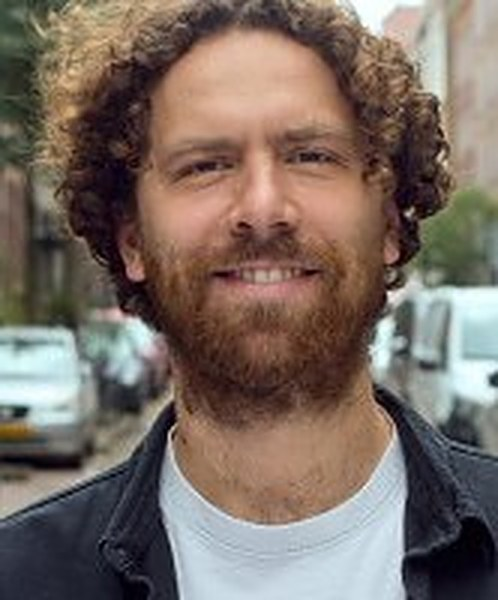
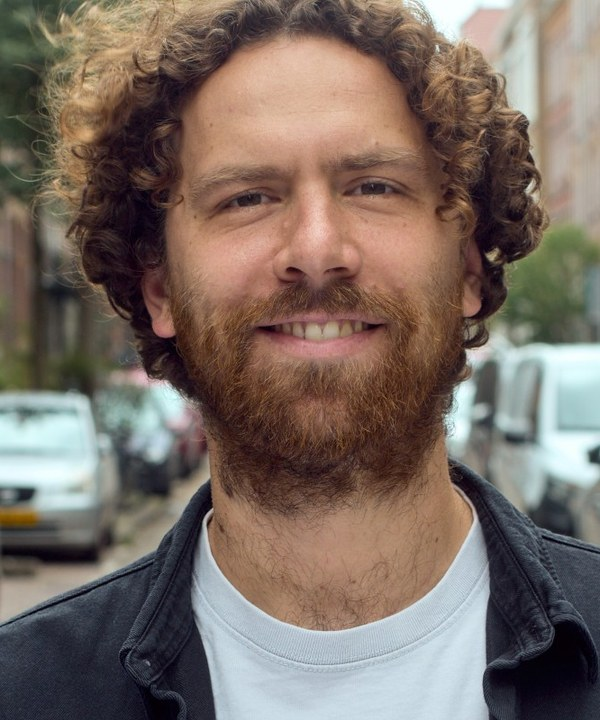
Solutions in Canva format with veins hero; team bios shortened, Jesse photo and LinkedIn
Claude-Session: https://claude.ai/code/session_012WVufrcvqibRwWTiJko1GV

diff --git a/solutions/index.html b/solutions/index.html
@@ -17,7 +17,7 @@
 <link rel="preconnect" href="https://fonts.googleapis.com">
 <link rel="preconnect" href="https://fonts.gstatic.com" crossorigin>
 <link href="https://fonts.googleapis.com/css2?family=Figtree:ital,wght@0,400;0,500;0,600;0,700;1,400&display=swap" rel="stylesheet">
-<link rel="stylesheet" href="/styles.css?v=5c5e1d22">
+<link rel="stylesheet" href="/styles.css?v=9d88d3e2">
 </head>
 <body>
 <a class="sr-only" href="#main">Skip to content</a>
@@ -38,44 +38,54 @@
       <div class="m-menu" hidden><p class="m-h">Solutions</p><a class="m-sub" href="/bess-configurator/">BESS Configurator</a><a class="m-sub" href="/bess-broker/">BESS Broker</a><a class="m-sub" href="/bess-backtest/">BESS Backtest</a><a href="/resources/">Resources</a><a href="/company/">Company</a></div>
     </header>
 
-    <div class="page-hero" id="main">
-      <h1>Solutions</h1>
+    <div class="page-hero sol-hero-mark" id="main">
+      <h1>Which one is you?</h1>
       <p>Three solutions for those who add capacity to the grid but are in the dark on the potential of their assets: size the right system, monitor its performance and find a trusted optimizer when there is more to earn.</p>
+      <div class="hero-ctas"><a class="btn btn-lilac" href="#configurator">BESS Configurator</a><a class="btn btn-lilac" href="#broker">BESS Broker</a><a class="btn btn-lilac" href="#backtest">BESS Backtest</a></div>
     </div>
   </div>
 </div>
 <section class="dark sol-wrap">
   <div class="wrap">
-    <article class="sol" id="configurator">
-      <span class="sol-icon" aria-hidden="true"><svg viewBox="0 0 24 24" fill="none" stroke="#97F2F5" stroke-width="1.5" stroke-linecap="round" stroke-linejoin="round"><path d="M4 7h9M17 7h3M4 17h3M11 17h9"/><circle cx="15" cy="7" r="2"/><circle cx="9" cy="17" r="2"/><path d="M4 12h5M13 12h7"/><circle cx="11" cy="12" r="2"/></svg></span>
-      <div class="sol-body">
-        <h2>BESS Configurator</h2>
-        <p class="sol-lead">Find the optimal system for your context.</p>
-        <p>We simulate the revenues of different configurations (number of batteries, MW/MWh) within the restrictions on your site, so you see which one could earn the most.</p>
-        <p>For owners and developers who plan a battery on a site with solar, wind or a large energy use, and for installers who size systems for customers.</p>
-        <div class="cta-row" style="justify-content:flex-start;margin-top:22px"><a class="btn btn-lilac" href="/bess-configurator/">Learn more</a><a class="btn btn-outline" href="/talk-to-us/?topic=configurator">Talk to us</a></div>
-      </div>
-    </article>
-    <article class="sol" id="broker">
-      <span class="sol-icon" aria-hidden="true"><svg viewBox="0 0 24 24" fill="none" stroke="#97F2F5" stroke-width="1.5" stroke-linecap="round" stroke-linejoin="round"><circle cx="10.5" cy="10.5" r="6.5"/><path d="M15.5 15.5 21 21"/><path d="M8 10.5l2 2 3.5-4"/></svg></span>
-      <div class="sol-body">
-        <h2>BESS Broker</h2>
-        <p class="sol-lead">Outsource the search for a trusted optimizer.</p>
-        <p>We run a standardised process to source, compare and contract optimizers, and manage the switch so your battery keeps earning without interruption.</p>
-        <p>For owners whose battery objectively earns less than it could and who want to compare optimizers without doing the research themselves.</p>
-        <div class="cta-row" style="justify-content:flex-start;margin-top:22px"><a class="btn btn-lilac" href="/bess-broker/">Learn more</a><a class="btn btn-outline" href="/talk-to-us/?topic=broker">Talk to us</a></div>
-      </div>
-    </article>
-    <article class="sol" id="backtest">
-      <span class="sol-icon" aria-hidden="true"><svg viewBox="0 0 24 24" fill="none" stroke="#97F2F5" stroke-width="1.5" stroke-linecap="round" stroke-linejoin="round"><path d="M3.5 12a8.5 8.5 0 1 0 2.6-6.1"/><path d="M3.5 4.5v4h4"/><path d="M12 7.5V12l3 2"/></svg></span>
-      <div class="sol-body">
-        <h2>BESS Backtest</h2>
-        <p class="sol-lead">Monitor your performance proactively.</p>
-        <p>We compare your realised revenues with what is reasonably achievable on your site, and alert you when performance consistently falls short.</p>
-        <p>For owners of operating batteries, and for installers who want to give every customer an independent view on what the battery earns.</p>
-        <div class="cta-row" style="justify-content:flex-start;margin-top:22px"><a class="btn btn-lilac" href="/bess-backtest/">Learn more</a><a class="btn btn-outline" href="/talk-to-us/?topic=backtest">Talk to us</a></div>
-      </div>
-    </article>
+    <div class="sol-row sol-r0">
+      <article class="sol" id="configurator">
+        <span class="sol-icon" aria-hidden="true"><svg viewBox="0 0 24 24" fill="none" stroke="#97F2F5" stroke-width="1.5" stroke-linecap="round" stroke-linejoin="round"><path d="M4 7h9M17 7h3M4 17h3M11 17h9"/><circle cx="15" cy="7" r="2"/><circle cx="9" cy="17" r="2"/><path d="M4 12h5M13 12h7"/><circle cx="11" cy="12" r="2"/></svg></span>
+        <div class="sol-body">
+          <h2>BESS Configurator</h2>
+          <p class="sol-lead">Find the optimal system for your context.</p>
+          <p>We simulate the revenues of different configurations (number of batteries, MW/MWh) within the restrictions on your site, so you see which one could earn the most.</p>
+          <p>For owners and developers who plan a battery on a site with solar, wind or a large energy use, and for installers who size systems for customers.</p>
+          <div class="cta-row" style="justify-content:flex-start;margin-top:22px"><a class="btn btn-lilac" href="/bess-configurator/">Learn more</a><a class="btn btn-outline" href="/talk-to-us/?topic=configurator">Talk to us</a></div>
+        </div>
+      </article>
+      <img class="sol-img" src="/assets/img/about-pylon.jpg" alt="Power lines against the evening sky" width="960" height="1080" loading="lazy">
+    </div>
+    <div class="sol-row sol-r1">
+      <article class="sol" id="broker">
+        <span class="sol-icon" aria-hidden="true"><svg viewBox="0 0 24 24" fill="none" stroke="#97F2F5" stroke-width="1.5" stroke-linecap="round" stroke-linejoin="round"><circle cx="10.5" cy="10.5" r="6.5"/><path d="M15.5 15.5 21 21"/><path d="M8 10.5l2 2 3.5-4"/></svg></span>
+        <div class="sol-body">
+          <h2>BESS Broker</h2>
+          <p class="sol-lead">Outsource the search for a trusted optimizer.</p>
+          <p>We run a standardised process to source, compare and contract optimizers, and manage the switch so your battery keeps earning without interruption.</p>
+          <p>For owners whose battery objectively earns less than it could and who want to compare optimizers without doing the research themselves.</p>
+          <div class="cta-row" style="justify-content:flex-start;margin-top:22px"><a class="btn btn-lilac" href="/bess-broker/">Learn more</a><a class="btn btn-outline" href="/talk-to-us/?topic=broker">Talk to us</a></div>
+        </div>
+      </article>
+      <img class="sol-img" src="/assets/img/hero-bulb.jpg" alt="Glowing light bulb filament" width="960" height="1080" loading="lazy">
+    </div>
+    <div class="sol-row sol-r0">
+      <article class="sol" id="backtest">
+        <span class="sol-icon" aria-hidden="true"><svg viewBox="0 0 24 24" fill="none" stroke="#97F2F5" stroke-width="1.5" stroke-linecap="round" stroke-linejoin="round"><path d="M3.5 12a8.5 8.5 0 1 0 2.6-6.1"/><path d="M3.5 4.5v4h4"/><path d="M12 7.5V12l3 2"/></svg></span>
+        <div class="sol-body">
+          <h2>BESS Backtest</h2>
+          <p class="sol-lead">Monitor your performance proactively.</p>
+          <p>We compare your realised revenues with what is reasonably achievable on your site, and alert you when performance consistently falls short.</p>
+          <p>For owners of operating batteries, and for installers who want to give every customer an independent view on what the battery earns.</p>
+          <div class="cta-row" style="justify-content:flex-start;margin-top:22px"><a class="btn btn-lilac" href="/bess-backtest/">Learn more</a><a class="btn btn-outline" href="/talk-to-us/?topic=backtest">Talk to us</a></div>
+        </div>
+      </article>
+      <img class="sol-img" src="/assets/img/company-grid.jpg" alt="High-voltage substation against the evening sky" width="960" height="1080" loading="lazy">
+    </div>
   </div>
 </section>
 <section class="faq-sec" id="faq">

diff --git a/company/index.html b/company/index.html
@@ -17,7 +17,7 @@
 <link rel="preconnect" href="https://fonts.googleapis.com">
 <link rel="preconnect" href="https://fonts.gstatic.com" crossorigin>
 <link href="https://fonts.googleapis.com/css2?family=Figtree:ital,wght@0,400;0,500;0,600;0,700;1,400&display=swap" rel="stylesheet">
-<link rel="stylesheet" href="/styles.css?v=5c5e1d22">
+<link rel="stylesheet" href="/styles.css?v=9d88d3e2">
 <script type="application/ld+json">
 {
  "@context": "https://schema.org",
@@ -91,9 +91,9 @@
   <div class="wrap">
     <p class="co-label">The team</p>
     <div class="team">
-      <a class="member" href="https://www.linkedin.com/in/idel%C3%A8s-kaandorp/" target="_blank" rel="noopener"><img class="ph" src="/assets/team-ideles.jpg" alt="Idelès Kaandorp" width="600" height="600" loading="lazy"><b>Idelès Kaandorp</b><span class="m-bio">Founder. Owns strategy, culture, team, commercial development and fundraising. MSc in Pure Mathematics (King's College London), MBA (Harvard Business School) and McKinsey &amp; Company (2017-2019, 2022-2025), on energy projects.</span></a>
-      <a class="member" href="https://www.linkedin.com/in/edo-rivai-78b66a17/" target="_blank" rel="noopener"><img class="ph" src="/assets/team-edo.jpg" alt="Edo Rivai" width="512" height="512" loading="lazy"><b>Edo Rivai</b><span class="m-bio">Senior software developer. Owns platform design, API integrations with EMS and metering providers, the API sandbox, infrastructure and technical onboarding. Track record building scalable software.</span></a>
-      <div class="member"><img class="ph" src="/assets/team-jesse.jpg" alt="Jesse Willis" width="498" height="600" loading="lazy"><b>Jesse Willis</b><span class="m-bio">Project manager. Owns delivery planning, scope and budget, discovery calls with BESS owners and installers, and closing the first clients. Background as industrial design engineer (Delft).</span></div>
+      <a class="member" href="https://www.linkedin.com/in/idel%C3%A8s-kaandorp/" target="_blank" rel="noopener"><img class="ph" src="/assets/team-ideles.jpg" alt="Idelès Kaandorp" width="600" height="600" loading="lazy"><b>Idelès Kaandorp</b><span class="m-bio">Founder. Owns strategy, culture, team and fundraising, and closes the first clients. Ex-McKinsey on energy projects, MBA Harvard Business School.</span></a>
+      <a class="member" href="https://www.linkedin.com/in/edo-rivai-78b66a17/" target="_blank" rel="noopener"><img class="ph" src="/assets/team-edo.jpg" alt="Edo Rivai" width="512" height="512" loading="lazy"><b>Edo Rivai</b><span class="m-bio">Senior software developer. Owns platform design, API integrations with EMS and metering providers, infrastructure and technical onboarding. Builds scalable software at Spot AI.</span></a>
+      <a class="member" href="https://www.linkedin.com/in/jesse-h-willis/" target="_blank" rel="noopener"><img class="ph" src="/assets/team-jesse.jpg" alt="Jesse Willis" width="600" height="720" loading="lazy"><b>Jesse Willis</b><span class="m-bio">Project manager. Owns the process and makes sure every deliverable is delivered, on scope, budget and time. Runs Everlab, an industrial design engineering firm in Amsterdam.</span></a>
       <div class="member tbc"><span class="ph ph-empty ph-init" aria-hidden="true"><i>+</i></span><b>Coming soon</b><span class="m-bio">A new teammate joins us.</span></div>
       <div class="member tbc"><span class="ph ph-empty ph-init" aria-hidden="true"><i>+</i></span><b>Coming soon</b><span class="m-bio">A new teammate joins us.</span></div>
     </div>

diff --git a/styles.css b/styles.css
@@ -1265,3 +1265,17 @@ a.member:hover b { text-decoration: underline; text-underline-offset: 4px; }
 .co-note{margin-top:28px;font-size:var(--body);line-height:1.5}.co-note a{text-decoration:underline}
 .member.tbc{opacity:.6}
 .member.tbc .ph{display:none}.member.tbc{border:1px dashed rgba(255,255,255,.25);border-radius:12px;padding:22px;align-self:start}.member.tbc b{margin-top:0}
+
+/* v29 solutions in Canva format */
+.hero-shell:has(.sol-hero-mark){background:#040D1F url(/assets/img/solutions-veins-bright.jpg) center/cover no-repeat}
+.sol-hero-mark{padding-bottom:64px}.sol-hero-mark .hero-ctas{display:flex;gap:12px;flex-wrap:wrap}
+.sol-row{display:grid;grid-template-columns:minmax(0,1fr) minmax(0,1fr);gap:24px;margin-bottom:24px;align-items:stretch}
+.sol-row .sol{margin:0;display:block}.sol-row .sol-icon{margin-bottom:14px}
+.sol-img{width:100%;height:100%;min-height:360px;object-fit:cover;border-radius:28px;display:block}
+.sol-row.sol-r1 .sol{order:2}
+@media (max-width:860px){.sol-row{grid-template-columns:minmax(0,1fr)}.sol-row.sol-r1 .sol{order:0}.sol-img{min-height:240px;height:260px}}
+.hero-shell:has(.sol-hero-mark){background:#040D1F url(/assets/img/solutions-veins-bright.jpg) center/cover no-repeat !important}
+.sol-img{height:0;min-height:100%}
+@media (max-width:860px){.sol-img{height:260px;min-height:240px}}
+.hero-shell:has(.sol-hero-mark){background:linear-gradient(90deg,rgba(4,13,31,.72) 0%,rgba(4,13,31,.25) 60%,rgba(4,13,31,0) 100%),#040D1F url(/assets/img/solutions-veins-bright.jpg) center/cover no-repeat !important}
+.sol-hero-mark .btn-lilac{color:#040D1F}

diff --git a/index.html b/index.html
@@ -17,7 +17,7 @@
 <link rel="preconnect" href="https://fonts.googleapis.com">
 <link rel="preconnect" href="https://fonts.gstatic.com" crossorigin>
 <link href="https://fonts.googleapis.com/css2?family=Figtree:ital,wght@0,400;0,500;0,600;0,700;1,400&display=swap" rel="stylesheet">
-<link rel="stylesheet" href="/styles.css?v=5c5e1d22">
+<link rel="stylesheet" href="/styles.css?v=9d88d3e2">
 <script type="application/ld+json">
 {
  "@context": "https://schema.org",

diff --git a/bess-backtest/index.html b/bess-backtest/index.html
@@ -17,7 +17,7 @@
 <link rel="preconnect" href="https://fonts.googleapis.com">
 <link rel="preconnect" href="https://fonts.gstatic.com" crossorigin>
 <link href="https://fonts.googleapis.com/css2?family=Figtree:ital,wght@0,400;0,500;0,600;0,700;1,400&display=swap" rel="stylesheet">
-<link rel="stylesheet" href="/styles.css?v=5c5e1d22">
+<link rel="stylesheet" href="/styles.css?v=9d88d3e2">
 </head>
 <body>
 <a class="sr-only" href="#main">Skip to content</a>

diff --git a/bess-broker/index.html b/bess-broker/index.html
@@ -17,7 +17,7 @@
 <link rel="preconnect" href="https://fonts.googleapis.com">
 <link rel="preconnect" href="https://fonts.gstatic.com" crossorigin>
 <link href="https://fonts.googleapis.com/css2?family=Figtree:ital,wght@0,400;0,500;0,600;0,700;1,400&display=swap" rel="stylesheet">
-<link rel="stylesheet" href="/styles.css?v=5c5e1d22">
+<link rel="stylesheet" href="/styles.css?v=9d88d3e2">
 </head>
 <body>
 <a class="sr-only" href="#main">Skip to content</a>

diff --git a/bess-configurator/index.html b/bess-configurator/index.html
@@ -17,7 +17,7 @@
 <link rel="preconnect" href="https://fonts.googleapis.com">
 <link rel="preconnect" href="https://fonts.gstatic.com" crossorigin>
 <link href="https://fonts.googleapis.com/css2?family=Figtree:ital,wght@0,400;0,500;0,600;0,700;1,400&display=swap" rel="stylesheet">
-<link rel="stylesheet" href="/styles.css?v=5c5e1d22">
+<link rel="stylesheet" href="/styles.css?v=9d88d3e2">
 </head>
 <body>
 <a class="sr-only" href="#main">Skip to content</a>

diff --git a/cookies/index.html b/cookies/index.html
@@ -17,7 +17,7 @@
 <link rel="preconnect" href="https://fonts.googleapis.com">
 <link rel="preconnect" href="https://fonts.gstatic.com" crossorigin>
 <link href="https://fonts.googleapis.com/css2?family=Figtree:ital,wght@0,400;0,500;0,600;0,700;1,400&display=swap" rel="stylesheet">
-<link rel="stylesheet" href="/styles.css?v=5c5e1d22">
+<link rel="stylesheet" href="/styles.css?v=9d88d3e2">
 </head>
 <body>
 <a class="sr-only" href="#main">Skip to content</a>

diff --git a/privacy/index.html b/privacy/index.html
@@ -17,7 +17,7 @@
 <link rel="preconnect" href="https://fonts.googleapis.com">
 <link rel="preconnect" href="https://fonts.gstatic.com" crossorigin>
 <link href="https://fonts.googleapis.com/css2?family=Figtree:ital,wght@0,400;0,500;0,600;0,700;1,400&display=swap" rel="stylesheet">
-<link rel="stylesheet" href="/styles.css?v=5c5e1d22">
+<link rel="stylesheet" href="/styles.css?v=9d88d3e2">
 </head>
 <body>
 <a class="sr-only" href="#main">Skip to content</a>

diff --git a/resources/index.html b/resources/index.html
@@ -17,7 +17,7 @@
 <link rel="preconnect" href="https://fonts.googleapis.com">
 <link rel="preconnect" href="https://fonts.gstatic.com" crossorigin>
 <link href="https://fonts.googleapis.com/css2?family=Figtree:ital,wght@0,400;0,500;0,600;0,700;1,400&display=swap" rel="stylesheet">
-<link rel="stylesheet" href="/styles.css?v=5c5e1d22">
+<link rel="stylesheet" href="/styles.css?v=9d88d3e2">
 </head>
 <body>
 <a class="sr-only" href="#main">Skip to content</a>

diff --git a/talk-to-us/index.html b/talk-to-us/index.html
@@ -17,7 +17,7 @@
 <link rel="preconnect" href="https://fonts.googleapis.com">
 <link rel="preconnect" href="https://fonts.gstatic.com" crossorigin>
 <link href="https://fonts.googleapis.com/css2?family=Figtree:ital,wght@0,400;0,500;0,600;0,700;1,400&display=swap" rel="stylesheet">
-<link rel="stylesheet" href="/styles.css?v=5c5e1d22">
+<link rel="stylesheet" href="/styles.css?v=9d88d3e2">
 </head>
 <body>
 <a class="sr-only" href="#main">Skip to content</a>

diff --git a/terms/index.html b/terms/index.html
@@ -17,7 +17,7 @@
 <link rel="preconnect" href="https://fonts.googleapis.com">
 <link rel="preconnect" href="https://fonts.gstatic.com" crossorigin>
 <link href="https://fonts.googleapis.com/css2?family=Figtree:ital,wght@0,400;0,500;0,600;0,700;1,400&display=swap" rel="stylesheet">
-<link rel="stylesheet" href="/styles.css?v=5c5e1d22">
+<link rel="stylesheet" href="/styles.css?v=9d88d3e2">
 </head>
 <body>
 <a class="sr-only" href="#main">Skip to content</a>
